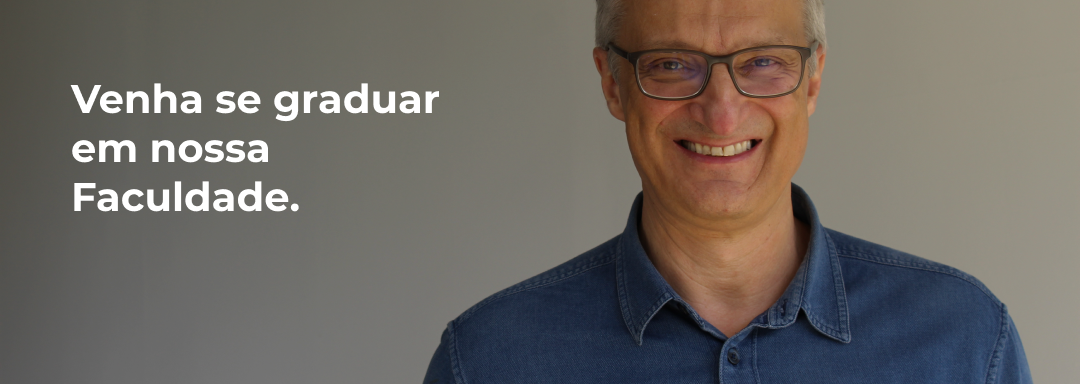
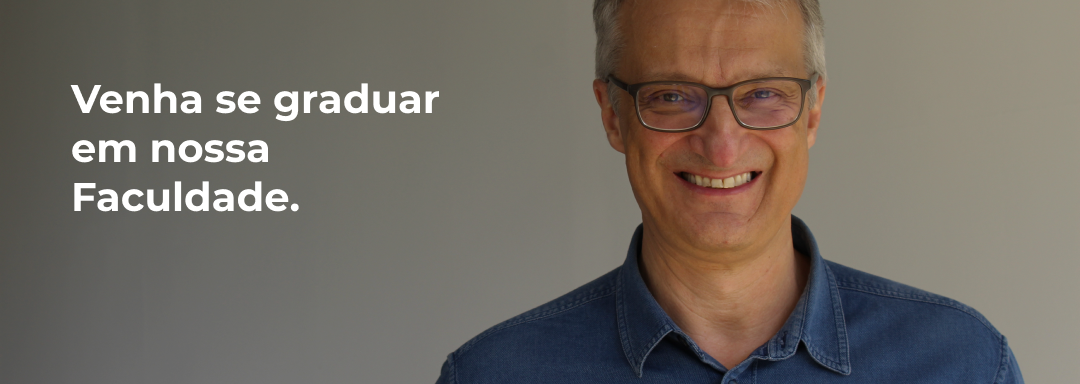
trocando imagem e setando animação

diff --git a/home/src/components/style.css b/home/src/components/style.css
@@ -21,7 +21,7 @@
     background: #001489;
     height: 134px;
     padding: 38px 26px;
-    box-shadow: 0px 5px 25px rgb(12, 1, 65);
+    box-shadow: 5px 5px 25px rgb(12, 1, 65);
 }
 .logo{
     height: 65px;
@@ -71,13 +71,72 @@
 }
 .chevrons{
     position: absolute;
-    top: 600px;
+    z-index: 10;
+    top: auto;
     display: block;
-    margin: 0 auto;
+    left: 50%;
     right: 50%;
-    font-size: 40px;
+    bottom: 0;
+    font-size: 50px;
     color: white;
-
-    
-
+    margin-bottom: 45px;
+    animation: fade-slide-up 1s 1s ease-out forwards,
+    pulse 2s 3s ease-out infinite;
+    opacity: 0;
 }
+@keyframes fade-slide-down {
+    0% {
+      opacity: 0;
+      transform: translateY(-4rem);
+    }
+    100% {
+      opacity: 1;
+      transform: none;
+    }
+  }
+  
+  @keyframes fade-slide-up {
+    0% {
+      opacity: 0;
+      transform: translateY(4rem);
+    }
+    100% {
+      opacity: 1;
+      transform: none;
+    }
+  }
+  
+  @keyframes pop-in {
+    0% {
+      opacity: 0;
+      transform: translateY(-4rem) scale(.8);
+    }
+    100% {
+      opacity: 1;
+      transform: none;
+    }
+  }
+  
+  @keyframes pulse {
+    0% {
+      opacity: 1;
+      transform: none;
+    }
+    50% {
+      opacity: .8;
+      transform: scale(.8);
+    }
+    100% {
+      opacity: 1;
+      transform: none;
+    }
+  }
+@media only screen and (min-width: 1400px) {
+    .chevrons {
+      font-size: 75px;
+     
+    }
+    .item-menu{
+        font-size: 30px;
+    }
+  }

diff --git a/home/src/components/Header.jsx b/home/src/components/Header.jsx
@@ -44,15 +44,15 @@ const Header = ()=>{
                     <img src={Giroto} className='carrossel-img'></img>
                     <FiChevronsDown className='chevrons'/>
                 </CarouselItem>
-                <CarouselItem  interval={5000}>
+                <CarouselItem  interval={8000}>
                     <img src={Cleuton}  className='carrossel-img'></img>
                     <FiChevronsDown className='chevrons'/>
                 </CarouselItem >
-                <CarouselItem interval={5000}>
+                <CarouselItem interval={8000}>
                     <img src={Admissao}  className='carrossel-img'></img>
                     <FiChevronsDown className='chevrons'/>
                 </CarouselItem >
-                <CarouselItem  interval={5000}>
+                <CarouselItem  interval={8000}>
                     <img src={Universidade} className='carrossel-img'></img>
                     <FiChevronsDown className='chevrons'/>
                 </CarouselItem>

diff --git a/home/src/components/formatCarousel.css b/home/src/components/formatCarousel.css
@@ -5844,8 +5844,9 @@ fieldset:disabled .btn {
 
   padding: 0;
   margin-right: 15%;
-  margin-bottom: 11rem;
-  margin-left: 95%;
+  bottom: auto;
+  top: 50%;
+  margin-left: calc(98% - 18px);
   list-style: none;
 }
 .carousel-indicators [data-bs-target] {
